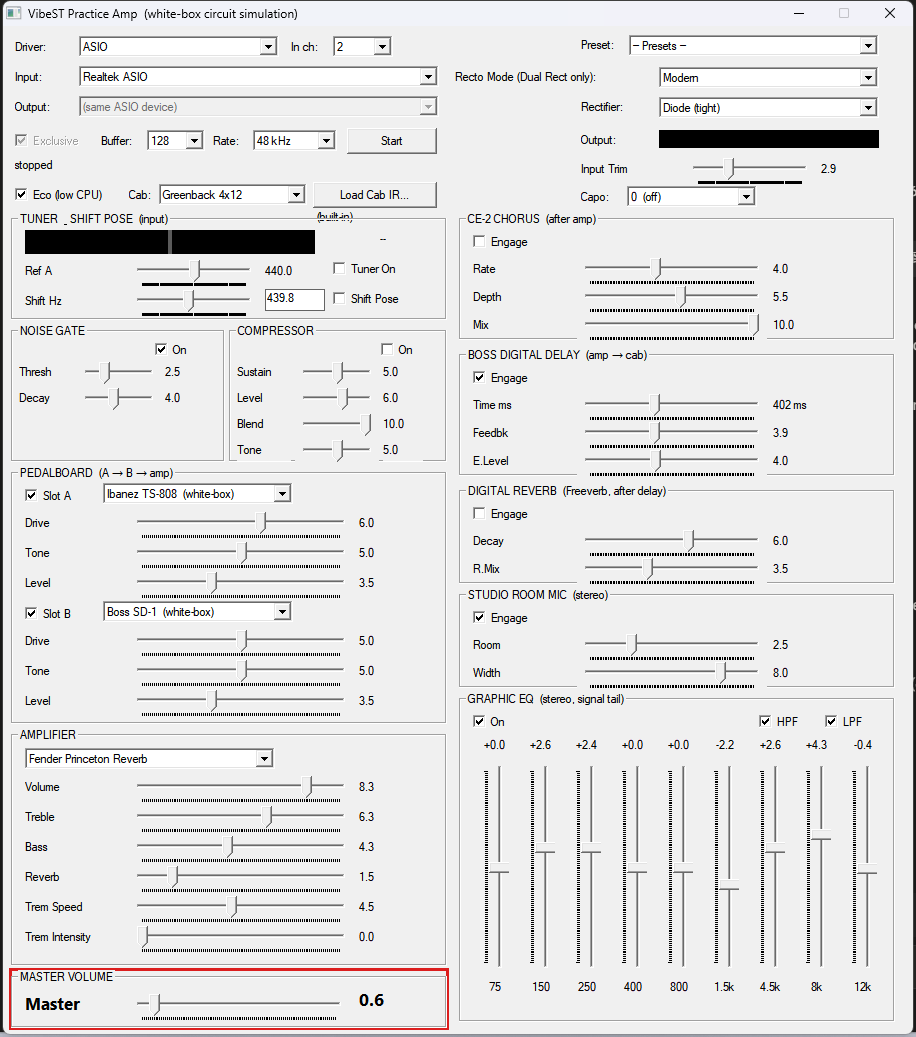
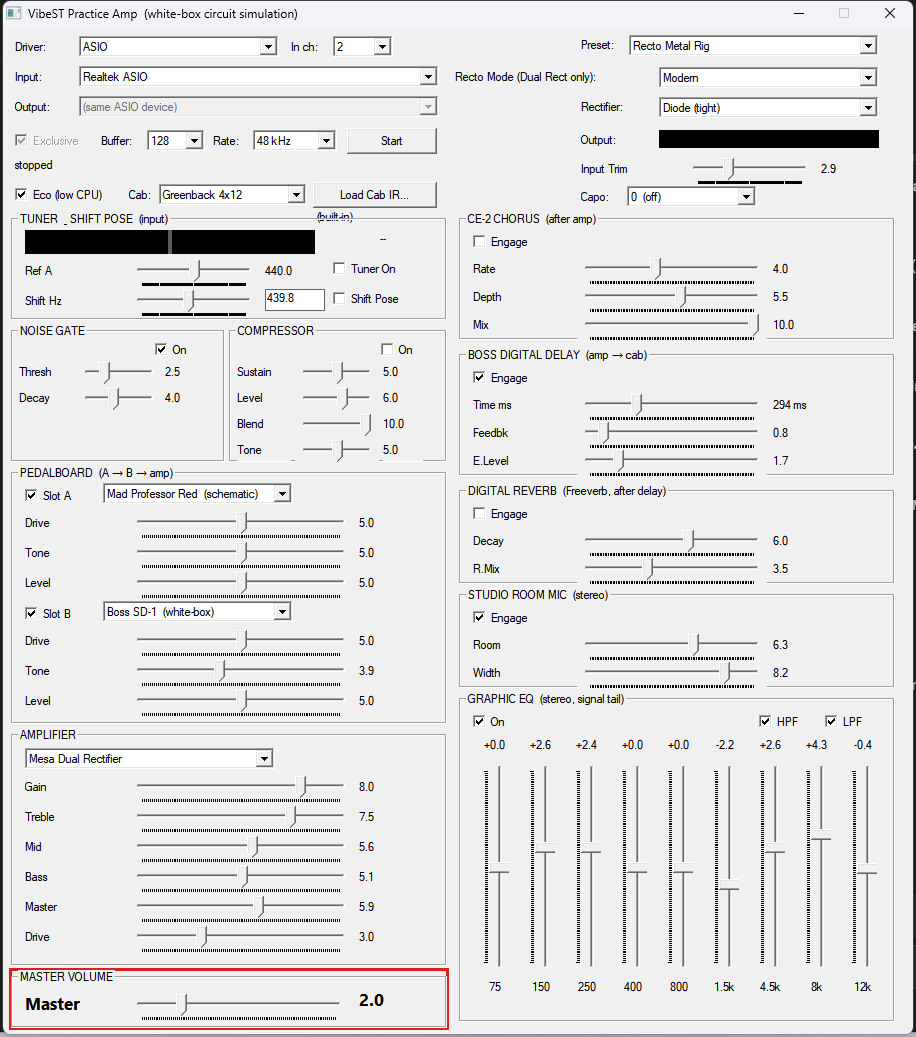
Add "Recto Metal Rig" boot preset; reorder Mid-amp knobs to Treble/Mid/Bass
New preset (Mad Professor Red + Boss SD-1 -> Mesa Dual Rectifier, Modern) matching
the requested rig, and the app now boots into it (applyPreset in WM_CREATE). Delay
(294 ms / 0.8 / 1.7) and room mic (6.3 / 8.2) aren't stored in presets, so their
widget defaults were updated to match. Verified: boot state reproduces the target
screenshot exactly; the rig is finite/stable at 48 kHz (out 0.996).

Knob order for the amps that have a Mid control (Plexi/Recto/Dumble) is now
Treble / Mid / Bass (real amp order) instead of Treble / Bass / Mid:
- kAmpLabels: swap the Mid/Bass label positions for those three amps.
- engine apply(): swap the bass/mid args of plexi/recti/dumble setTone so
  slider4 (c.bass) -> mid and slider5 (c.reverb) -> bass.
- existing Mid-amp presets: swap their bas/rev values so the tone is unchanged
  (only the on-screen order moves). Traced an existing preset to confirm identical
  mid/bass reach the engine. Princeton (no Mid) is untouched.

diff --git a/vst/src/standalone/practice_amp_gui.cpp b/vst/src/standalone/practice_amp_gui.cpp
@@ -44,11 +44,11 @@ const Param kParams[32] = {
     {L"Drive", 0, 1, 0.5},        // 11: slot B drive
     {L"Tone", 0, 1, 0.5},         // 12: slot B tone
     {L"Level", 0, 1, 0.35},       // 13: slot B level
-    {L"Time ms", 20, 1000, 402},  // 14: delay time
-    {L"Feedbk", 0, 0.9, 0.351},   // 15: delay feedback
-    {L"E.Level", 0, 1.5, 0.6},    // 16: delay repeat level (Boss E.Level)
-    {L"Room", 0, 1, 0.25},        // 17: room mic amount
-    {L"Width", 0, 1, 0.8},        // 18: room mic width
+    {L"Time ms", 20, 1000, 294},  // 14: delay time (boot preset)
+    {L"Feedbk", 0, 0.9, 0.072},   // 15: delay feedback (boot preset)
+    {L"E.Level", 0, 1.5, 0.255},  // 16: delay repeat level (Boss E.Level)
+    {L"Room", 0, 1, 0.63},        // 17: room mic amount (boot preset)
+    {L"Width", 0, 1, 0.82},       // 18: room mic width (boot preset)
     {L"Thresh", 0, 1, 0.25},      // 19: noise gate threshold
     {L"Rate", 0, 1, 0.4},         // 20: chorus rate
     {L"Depth", 0, 1, 0.55},       // 21: chorus depth
@@ -68,13 +68,13 @@ constexpr int NP = 32;
 const wchar_t* kAmpLabels[4][6] = {
     {L"Volume", L"Treble", L"Bass", L"Reverb", L"Trem Speed",
      L"Trem Intensity"},
-    {L"Gain", L"Treble", L"Bass", L"Middle", L"Presence", L"High Treble"},
-    // Dual Rectifier — matches the engine's control map (Vol->Gain, Reverb->Mid,
-    // TremSpeed->Master, TremIntensity->Drive/input-push). Was falling back to
-    // Princeton's labels because relabelAmp clamped the amp index to 0..1.
-    {L"Gain", L"Treble", L"Bass", L"Mid", L"Master", L"Drive"},
-    // Dumble SSS (clean): Vol->Drive/push, Reverb->Mid, TremSpeed->Volume, TremInt->Input
-    {L"Drive", L"Treble", L"Bass", L"Mid", L"Volume", L"Input"},
+    {L"Gain", L"Treble", L"Middle", L"Bass", L"Presence", L"High Treble"},
+    // Dual Rectifier — Vol->Gain, TremSpeed->Master, TremInt->Drive/input-push.
+    // Tone knobs shown Treble/Mid/Bass (real amp order): slider4=Mid (fed by
+    // c.bass), slider5=Bass (fed by c.reverb) — see the setTone swap in apply().
+    {L"Gain", L"Treble", L"Mid", L"Bass", L"Master", L"Drive"},
+    // Dumble SSS (clean): Vol->Drive/push, TremSpeed->Volume, TremInt->Input
+    {L"Drive", L"Treble", L"Mid", L"Bass", L"Volume", L"Input"},
 };
 
 // ---- factory presets: set amp + pedals + knobs (raw slider positions; each amp
@@ -90,12 +90,17 @@ struct Preset {
 const Preset kPresets[] = {
     {L"— Presets —",     0,3,1,true, true,  0.5,0.5,0.5,0.3,0.5,0.0,0.030, 0.5,0.5,0.5,0.5,0.5,0.5},
     {L"Princeton Clean", 0,0,0,false,false, 0.4,0.6,0.5,0.3,0.0,0.0,0.045, 0.5,0.5,0.5,0.5,0.5,0.5},
-    {L"Plexi Crunch",    1,0,0,false,false, 0.7,0.6,0.4,0.6,0.5,0.5,0.030, 0.5,0.5,0.5,0.5,0.5,0.5},
-    {L"Recto Metal",     2,0,0,false,false, 0.8,0.4,0.4,0.9,0.4,0.3,0.024, 0.5,0.5,0.5,0.5,0.5,0.5},
-    {L"Dumble Clean",    3,0,0,false,false, 0.3,0.75,0.1,0.9,0.6,0.3,0.045,0.5,0.5,0.5,0.5,0.5,0.5},
-    {L"Klon → Dumble",   3,6,0,true, false, 0.35,0.75,0.1,0.9,0.6,0.3,0.040,0.6,0.6,0.7,0.5,0.5,0.5},
-    {L"TS+SD → Recto",   2,3,1,true, true,  0.75,0.4,0.4,0.85,0.4,0.3,0.024,0.5,0.5,0.55,0.5,0.5,0.52},
+    // Mid-amps (Plexi/Recto/Dumble): tone order is Treble/Mid/Bass, so the `bas`
+    // field now feeds slider4=Mid and `rev` feeds slider5=Bass (swapped vs before).
+    {L"Plexi Crunch",    1,0,0,false,false, 0.7,0.6,0.6,0.4,0.5,0.5,0.030, 0.5,0.5,0.5,0.5,0.5,0.5},
+    {L"Recto Metal",     2,0,0,false,false, 0.8,0.4,0.9,0.4,0.4,0.3,0.024, 0.5,0.5,0.5,0.5,0.5,0.5},
+    {L"Dumble Clean",    3,0,0,false,false, 0.3,0.75,0.9,0.1,0.6,0.3,0.045,0.5,0.5,0.5,0.5,0.5,0.5},
+    {L"Klon → Dumble",   3,6,0,true, false, 0.35,0.75,0.9,0.1,0.6,0.3,0.040,0.6,0.6,0.7,0.5,0.5,0.5},
+    {L"TS+SD → Recto",   2,3,1,true, true,  0.75,0.4,0.85,0.4,0.4,0.3,0.024,0.5,0.5,0.55,0.5,0.5,0.52},
+    // Boot default: Mad Professor Red + Boss SD-1 -> Mesa Dual Rectifier (Modern).
+    {L"Recto Metal Rig", 2,5,1,true, true,  0.80,0.75,0.56,0.51,0.59,0.30,0.04, 0.50,0.50,0.50,0.50,0.39,0.50},
 };
+constexpr int kBootPreset = sizeof(kPresets) / sizeof(kPresets[0]) - 1;   // "Recto Metal Rig"
 
 pa::Engine* gEngine = nullptr;
 ma_context gCtx;
@@ -558,7 +563,7 @@ void buildUi(HWND hwnd) {
     gPreset = mk(hwnd, L"COMBOBOX", nullptr, CBS_DROPDOWNLIST, 626, 9, 250, 300, IDC_PRESET);
     for (const auto& pr : kPresets)
         SendMessageW(gPreset, CB_ADDSTRING, 0, reinterpret_cast<LPARAM>(pr.name));
-    SendMessageW(gPreset, CB_SETCURSEL, 0, 0);
+    SendMessageW(gPreset, CB_SETCURSEL, kBootPreset, 0);   // show the boot preset
     mk(hwnd, L"STATIC", L"Recto Mode (Dual Rect only):", SS_LEFT, 452, 44, 200, 16, 0);
     gRectoMode = mk(hwnd, L"COMBOBOX", nullptr, CBS_DROPDOWNLIST, 656, 41, 220, 120, IDC_RECTOMODE);
     for (auto* n : {L"Raw", L"Vintage", L"Modern"})
@@ -692,8 +697,7 @@ LRESULT CALLBACK wndProc(HWND hwnd, UINT msg, WPARAM wp, LPARAM lp) {
     switch (msg) {
         case WM_CREATE:
             buildUi(hwnd);
-            relabelAmp();
-            applyControls();          // push the default preset to the engine
+            applyPreset(kBootPreset);   // boot into "Recto Metal Rig" (relabels + applies)
             SetTimer(hwnd, 1, 1000, nullptr);
             SetTimer(hwnd, 2, 55, nullptr);   // fast output-meter refresh
             return 0;

diff --git a/vst/src/standalone/engine_core.hpp b/vst/src/standalone/engine_core.hpp
@@ -242,20 +242,23 @@ struct Engine {
         // Marshall Plexi control map: Volume->Gain, Reverb->Middle,
         // TremSpeed->Presence, TremIntensity->High Treble (bright)
         plexiAmp.setGain(c.volume);
-        plexiAmp.setTone(c.treble, c.bass, c.reverb);
+        // tone knobs shown Treble/Mid/Bass: slider4 (c.bass) -> mid, slider5 (c.reverb) -> bass
+        plexiAmp.setTone(c.treble, c.reverb, c.bass);
         plexiAmp.setPresence(c.tremSpeed);
         plexiAmp.setBright(c.tremIntensity);
         // Dual Rectifier control map: Volume->Gain, Treble/Bass direct, Reverb->Mid
         // (Marshall stack has a mid pot), TremSpeed->Master.
         rectiAmp.setGain(c.volume);
-        rectiAmp.setTone(c.treble, c.reverb, c.bass, 0.5 + 0.5 * c.tremSpeed);
+        // tone knobs shown Treble/Mid/Bass: slider4 (c.bass) -> mid, slider5 (c.reverb) -> bass
+        rectiAmp.setTone(c.treble, c.bass, c.reverb, 0.5 + 0.5 * c.tremSpeed);
         rectiAmp.setInScale(0.5 + 4.0 * c.tremIntensity);   // TremIntensity -> input Drive
         rectiAmp.setMode(c.rectoMode);                      // Raw / Vintage / Modern
         rectiAmp.setRectifier(c.rectType);                  // Diode / Spongy (sag)
         // Dumble SSS control map: Volume->Drive/push, Treble/Bass direct, Reverb->Mid,
         // TremSpeed->Volume, TremIntensity->Input.
         dumbleAmp.setDrive(c.volume);
-        dumbleAmp.setTone(c.treble, c.reverb, c.bass, 0.5 + 0.5 * c.tremSpeed);
+        // tone knobs shown Treble/Mid/Bass: slider4 (c.bass) -> mid, slider5 (c.reverb) -> bass
+        dumbleAmp.setTone(c.treble, c.bass, c.reverb, 0.5 + 0.5 * c.tremSpeed);
         dumbleAmp.setInScale(0.5 + 1.5 * c.tremIntensity);
         if (c.cabKind != ctl.cabKind) rebuildCab(c.cabKind);
         // gate + chorus + post-amp FX